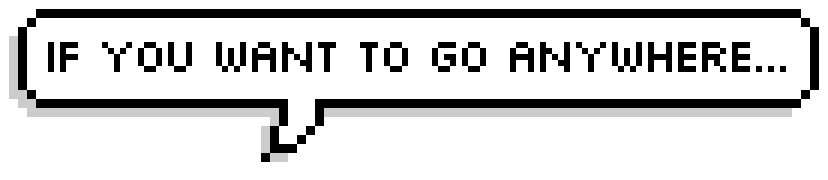
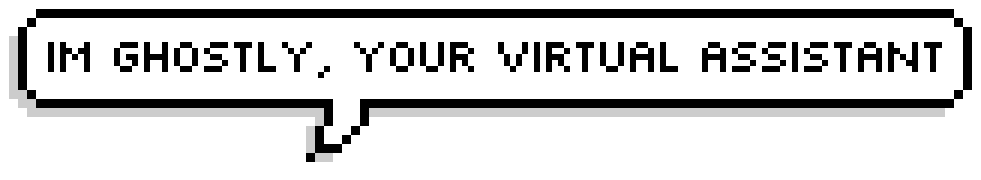
fixed ghostly dimensions on intro

Changed region(s): [[0.0, 0.0556, 0.9964, 0.6111], [0.3019, 0.5556, 0.3925, 0.9167], [0.936, 0.6111, 0.9662, 0.6389]]

diff --git a/client/src/Components/Intro/Intro.jsx b/client/src/Components/Intro/Intro.jsx
@@ -1,6 +1,7 @@
 import { useState } from 'react'
 import "./Intro.scss"
 import { Link } from 'react-router-dom'
+import Navbar from "../Navbar/Navbar.jsx"
 
 export default function Intro() {
 
@@ -9,14 +10,14 @@ export default function Intro() {
     const [houseHovered, setHouseHovered] = useState(false)
 
     const changeDialogue = () => {
-        dialogue < 5 && setDialogue(dialogue + 1)
+        dialogue < 6 && setDialogue(dialogue + 1)
     }
 
     return (
         <div className="introContainer">
             <div className="house" onMouseEnter={() => setHouseHovered(true)} onMouseLeave={() => setHouseHovered(false)}>
                 {   
-                    dialogue !== 5 ? 
+                    dialogue !== 6 ? 
                     <img src={require("../resources/house.png")} alt="" id="closedDoor"/>
                     :
                         !houseHovered ? 

diff --git a/client/src/Components/Home/Home.jsx b/client/src/Components/Home/Home.jsx
@@ -1,7 +1,7 @@
 import { useState } from 'react'
 import "./home.scss"
 import { Link } from 'react-router-dom'
-import Navbar from "../NavBar/Navbar.jsx"
+import Navbar from "../Navbar/Navbar.jsx"
 
 export default function Home() {
     const [table, setTable] = useState(false);

diff --git a/client/src/Components/Intro/Intro.scss b/client/src/Components/Intro/Intro.scss
@@ -32,8 +32,8 @@
         
 
         #ghostly {
-            width: 160px;
-            height: 175px;
+            width: 11vw;
+            height: 26vh;
             cursor: pointer;
         }
     }

diff --git a/client/src/Components/Home/home.scss b/client/src/Components/Home/home.scss
@@ -27,6 +27,7 @@
     
 
     .room {
+        
 
         #roomhidden {
                 display: none;
